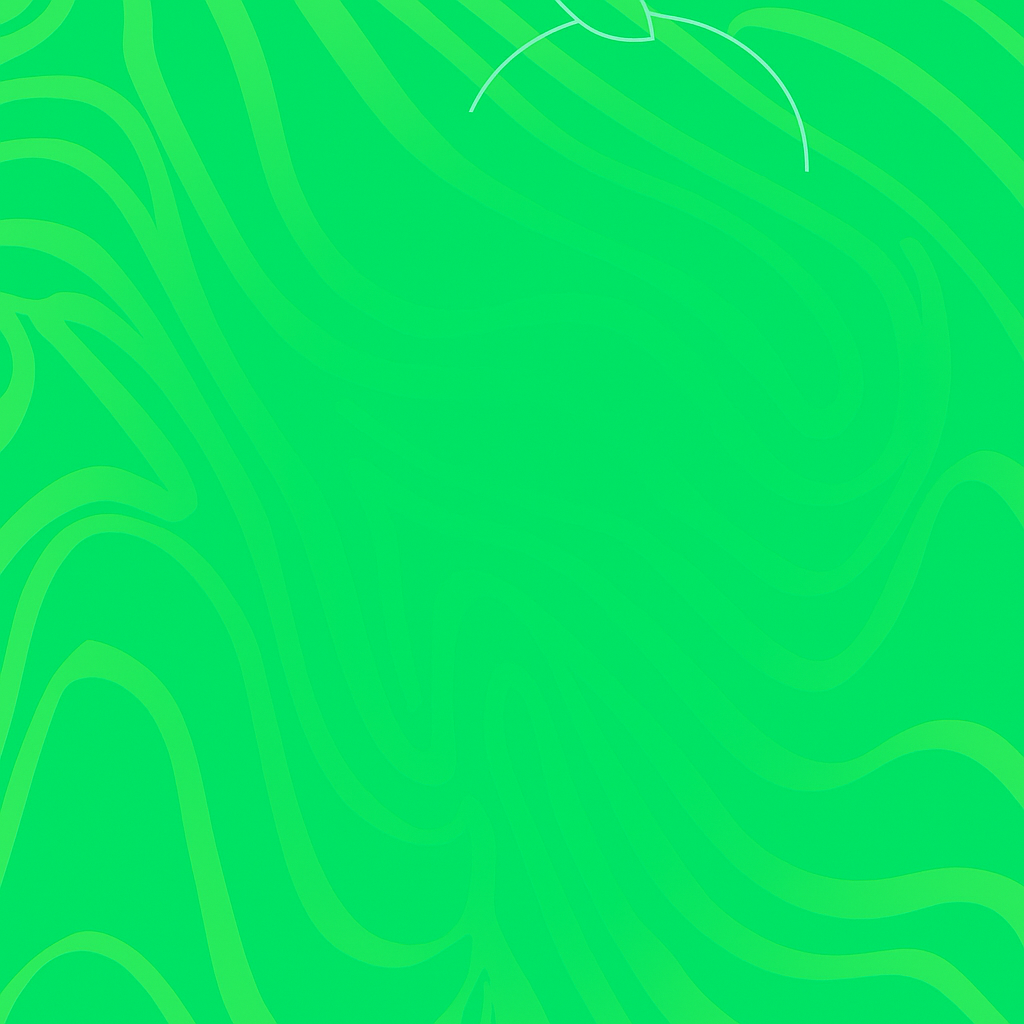
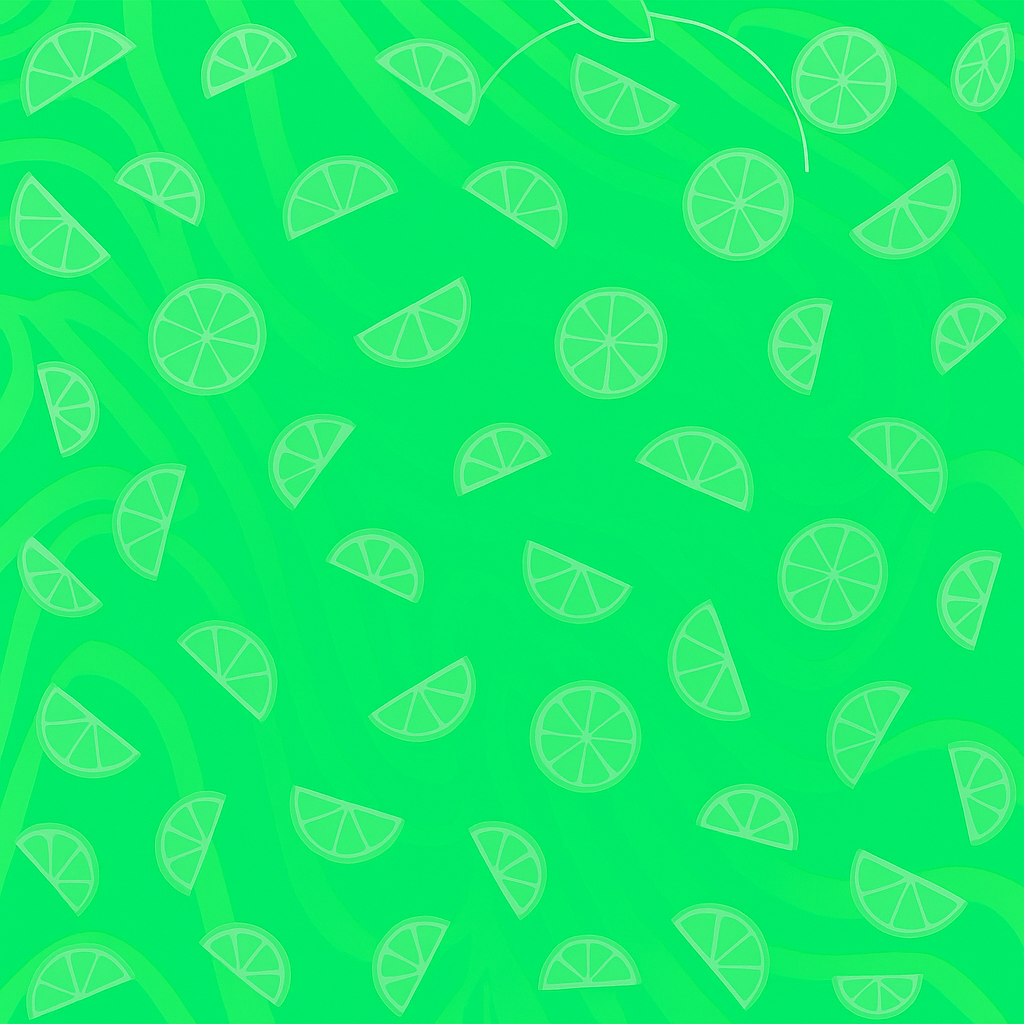
feat(nav): Adiciona ícone de limão na barra de navegação
- Insere a imagem 'limao.png' no centro da barra de navegação para reforçar a identidade visual.
- Aplica estilo para dimensionar o ícone proporcionalmente ao logo e adiciona a animação de flutuação.
- Inclui novos recursos de imagem no controle de versão.

diff --git a/index.html b/index.html
@@ -21,6 +21,7 @@
             <a href="index.html" class="logo">
                 <img src="logo02.png" alt="Limonada Summit Logo" />
             </a>
+            <img src="limao.png" alt="Ícone Limão" id="nav-lemon-icon" />
             <div class="header-actions">
                 <a href="admin.html" id="adminBtn" class="btn btn-outline hidden" title="Painel do Administrador">
                     <i class="fas fa-user-shield"></i> Admin

diff --git a/style.css b/style.css
@@ -1401,4 +1401,10 @@ footer .logo img {
 
 }
 
+#nav-lemon-icon {
+    height: 80px;
+    width: auto;
+    animation: float 3s ease-in-out infinite;
+}
+
 
